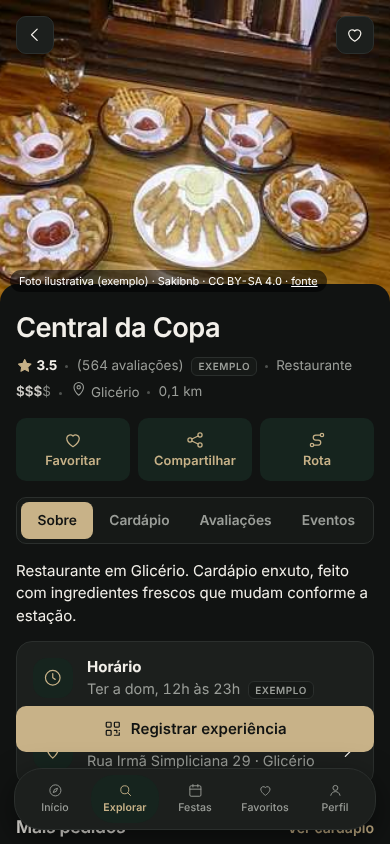
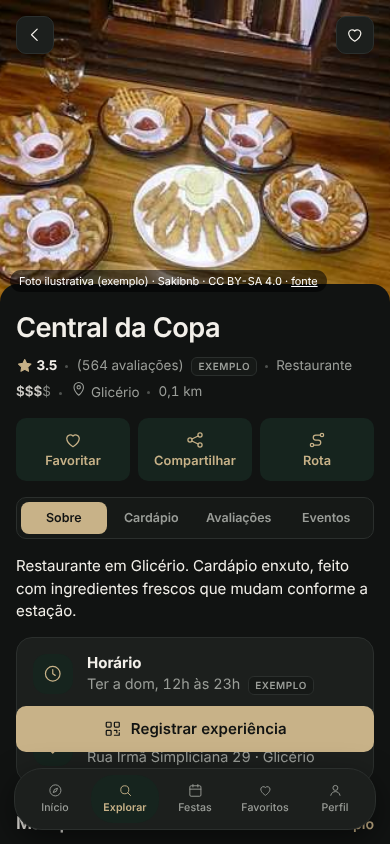
Festas: abas de período cabem no celular; Pagos com teto Até R$ x; categorias em uma linha; teste dos filtros
Claude-Session: https://claude.ai/code/session_011Er4bkypnUFfFv17kMZ9qv

diff --git a/frontend/teste_festas_filtros.js b/frontend/teste_festas_filtros.js
@@ -1,0 +1,61 @@
+// Festas (celular): abas de período dentro da tela; categorias em uma linha; "Pagos" e "Até R$ x" filtram certo; sem erros de JS.
+const { chromium } = require('playwright');
+(async () => {
+  const b = await chromium.launch(); let f = 0;
+  const ok = (c, m) => { console.log(c ? 'OK   ' : 'FALHA', m); if (!c) f++; };
+  for (const w of [360, 390, 412]) {
+    const ctx = await b.newContext({ viewport: { width: w, height: 800 }, isMobile: true, reducedMotion: 'reduce' });
+    const p = await ctx.newPage(); const er = [];
+    p.on('pageerror', e => er.push(e.message));
+    await p.addInitScript(() => { try { localStorage.setItem('turiz-theme', 'dark') } catch (e) { } });
+    await p.goto('file://' + process.argv[2]); await p.evaluate(() => go('login', null, true));
+    await p.fill('#f-mail', 'admin'); await p.fill('#f-pass', 'admin');
+    await p.evaluate(() => submitAuth(new Event('submit'))); await p.waitForTimeout(600);
+    await p.evaluate(() => { S.stack = []; S.tab.parties = 'prox'; S.pf = { q: '', g: '', cidade: '', tipo: '', preco: '', maxp: '' }; go('parties', null, true) });
+    await p.waitForTimeout(400);
+    const geo = await p.evaluate(() => {
+      const seg = document.querySelector('.tabs.seg').getBoundingClientRect();
+      const btns = [...document.querySelectorAll('.tabs.seg>button')].map(b => b.scrollWidth <= b.clientWidth + 1);
+      const chips = [...document.querySelectorAll('.m-cats .chip')];
+      const tops = new Set(chips.map(c => Math.round(c.getBoundingClientRect().top)));
+      const cortados = chips.filter(c => c.scrollWidth > c.clientWidth + 1).map(c => c.textContent.trim());
+      return { segDentro: seg.left >= 15 && seg.right <= innerWidth - 15, abasSemCorte: btns.every(Boolean), nAbas: btns.length,
+        nChips: chips.length, linhas: tops.size, cortados, larguraTela: innerWidth };
+    });
+    ok(geo.segDentro, `${w}px: abas de período dentro da tela com margem de 16px`);
+    ok(geo.abasSemCorte && geo.nAbas === 4, `${w}px: 4 abas de período sem texto cortado`);
+    ok(geo.nChips === 4 && geo.linhas === 1, `${w}px: 4 categorias em UMA linha (${geo.nChips} chips, ${geo.linhas} linha)`);
+    ok(geo.cortados.length === 0, `${w}px: nenhum rótulo de categoria cortado ${JSON.stringify(geo.cortados)}`);
+    ok(await p.evaluate(() => !document.querySelector('[data-act="pf:preco:100"]') && !/Até R\$ 100/.test(document.querySelector('.evfilters')?.textContent || '')) , `${w}px: botão "Até R$ 100" saiu da linha de preço`);
+    ok(await p.evaluate(() => !!document.querySelector('[data-act="pf:preco:pago"]')) && !(await p.$('#pmax')), `${w}px: "Pagos" aparece e o seletor "Até R$ x" está escondido antes de clicar`);
+
+    const count = () => p.evaluate(() => parseInt(document.querySelector('.m-count span').textContent.replace(/\./g, ''), 10));
+    const total = await count();
+    ok(total === await p.evaluate(() => E.length), `${w}px: sem filtro de preço mostra todos os eventos (${total})`);
+
+    await p.click('[data-act="pf:preco:pago"]'); await p.waitForTimeout(250);
+    const pagos = await p.evaluate(() => E.filter(e => !e.free && e.price != null).length);
+    ok(await count() === pagos, `${w}px: "Pagos" mostra só eventos com preço conhecido e não gratuitos (${pagos})`);
+    ok(await p.$('#pmax') !== null, `${w}px: ao clicar em Pagos, aparece o seletor "Até R$ x" ao lado`);
+    const opts = await p.evaluate(() => [...document.querySelectorAll('#pmax option')].map(o => o.textContent));
+    ok(opts.join('|') === 'Sem limite|Até R$ 50|Até R$ 100|Até R$ 200|Até R$ 500', `${w}px: opções do teto ${opts.join(', ')}`);
+
+    for (const v of ['50', '100', '200']) {
+      await p.selectOption('#pmax', v); await p.waitForTimeout(250);
+      const esp = await p.evaluate(v => E.filter(e => !e.free && e.price != null && e.price <= +v).length, v);
+      ok(await count() === esp, `${w}px: Pagos + Até R$ ${v} mostra ${esp} eventos`);
+    }
+    await p.selectOption('#pmax', ''); await p.waitForTimeout(250);
+    ok(await count() === pagos, `${w}px: "Sem limite" volta a mostrar todos os pagos (${pagos})`);
+
+    await p.click('[data-act="pf:preco:pago"]'); await p.waitForTimeout(250);
+    ok(await count() === total, `${w}px: desligar Pagos volta ao total (${total})`);
+    ok(await p.$('#pmax') === null, `${w}px: seletor some quando Pagos está desligado`);
+
+    await p.click('[data-act="pf:g:musica_entretenimento"]'); await p.waitForTimeout(250);
+    ok(await p.evaluate(() => S.pf.g === 'musica_entretenimento' && document.querySelector('.m-cats [aria-pressed="true"]').textContent.trim() === 'Música'), `${w}px: categoria "Música" marca só ela`);
+    ok(er.length === 0, `${w}px: sem erros de JavaScript ${JSON.stringify(er)}`);
+    await ctx.close();
+  }
+  await b.close(); console.log(f ? f + ' FALHAS' : 'TUDO OK'); process.exit(f ? 1 : 0);
+})();

diff --git a/frontend/patch_modelo.py b/frontend/patch_modelo.py
@@ -129,10 +129,23 @@ button.li:hover,.li[data-go]:hover{background:color-mix(in srgb,var(--ink) 5%,va
 .m-xr small{font-size:.7rem;color:var(--ink-2)}
 .m-xr .m-v{font-size:.78rem;font-weight:600;color:var(--brand);white-space:nowrap}
 .m-xr .m-v.pend{color:var(--warn)}
+/* categorias: uma linha só, em 4 colunas iguais que cabem em qualquer celular */
+.m-cats{display:grid;grid-template-columns:repeat(4,minmax(0,1fr));gap:6px}
+.m-cats .chip{min-width:0;padding:8px 0;font-size:.7rem;font-weight:500;color:var(--ink-2);white-space:nowrap;overflow:hidden;text-overflow:ellipsis;text-align:center}
+.m-cats .chip[aria-pressed="true"]{background:var(--brand);border-color:var(--brand);color:var(--brand-ink);font-weight:600}
+@media (min-width:720px){.m-cats{grid-template-columns:repeat(4,max-content);justify-content:start;gap:8px}.m-cats .chip{padding:7px 14px;font-size:.78rem}}
+/* abas de período (e de outras telas): colunas iguais; o texto quebra dentro da aba em vez de sair da tela */
+.evfilters .m-sel{position:relative;display:inline-flex;flex:none}
+.evfilters .m-sel select{appearance:none;-webkit-appearance:none;border:1px solid var(--line);background:var(--surface);color:var(--ink);box-shadow:none;border-radius:999px;height:auto;min-height:0;font:500 .78rem var(--font-body);padding:8px 30px 8px 14px;max-width:none}
+.evfilters .m-sel select:focus-visible{outline:2px solid var(--brand);outline-offset:2px}
+.evfilters .m-sel .i{position:absolute;right:11px;top:50%;transform:translateY(-50%);width:14px;height:14px;pointer-events:none;color:var(--ink-2)}
+.tabs.seg{display:grid;grid-auto-flow:column;grid-auto-columns:minmax(0,1fr);overflow:visible;gap:2px}
+.tabs.seg>button{min-width:0;white-space:normal;line-height:1.15;padding:9px 4px;font-size:.78rem;text-align:center}
 """
 
 HELPERS = r'''
 /* ---- peças do layout do modelo (usam só os dados do próprio app) ---- */
+const GRUPO_CURTO={musica_entretenimento:"Música",gastronomia:"Gastronomia",cultura_lazer:"Cultura"};
 const mPreco=p=>p.price?"$".repeat(Math.min(4,+p.price||0)):"";
 const mNotaTxt=p=>p.rating==null?"":"★ "+p.rating.toFixed(1).replace(".",",");
 const mMeta=p=>[esc(p.region||p.cuisine||""),mPreco(p),mNotaTxt(p)].filter(Boolean).join(" • ");
@@ -176,8 +189,9 @@ ${(()=>{const q=(f.q||"").trim();if(q.length<3)return"";const r=evFilter(E,evNL(
 PARTIES = r'''
 V.parties=()=>{const t=S.tab.parties,p=S.pf,nl=p.q.trim()?evNL(p.q):{f:{},info:[]},f={...nl.f};
 const reais=E.filter(e=>e.real),temData=f.de!=null||f.ate!=null;
-if(p.cidade)f.cidade=p.cidade;if(p.g)f.grupo=p.g;if(p.tipo)f.tipo=p.tipo;if(p.preco==="free")f.gratuito=true;if(p.preco==="100")f.max=100;
+if(p.cidade)f.cidade=p.cidade;if(p.g)f.grupo=p.g;if(p.tipo)f.tipo=p.tipo;if(p.preco==="free")f.gratuito=true;
 let l=evFilter(E,f);if(!temData&&t!=="prox")l=l.filter(e=>e.day===t);
+if(p.preco==="pago")l=l.filter(e=>!e.free&&e.price!=null&&(!p.maxp||e.price<=+p.maxp));
 const cidades=Object.entries(reais.reduce((o,e)=>(e.cidade&&(o[e.cidade]=(o[e.cidade]||0)+1),o),{})).sort((a,b)=>b[1]-a[1]).slice(0,40);
 const temTipo=reais.some(e=>e.placeId),n=l.length,vis=l.slice(0,S.pn);
 const atualiz=REAL.gerado?new Date(REAL.gerado).toLocaleDateString("pt-BR"):"";
@@ -186,9 +200,9 @@ return`<div class="m-phead"><div class="row between"><h1 class="m-h1">Festas</h1
 <form class="search" id="pqf" role="search">${ic("search")}<input id="pq" value="${esc(p.q)}" placeholder="Ex.: shows hoje em São Paulo · festas no fim de semana" aria-label="Buscar eventos"></form>
 ${nl.info.length?`<p class="evinterp" style="margin-top:8px">Entendi: <b>${nl.info.map(esc).join(" · ")}</b> <button class="link" data-act="pfclear">limpar</button></p>`:""}</div>
 ${temData?"":segs("parties",[["hoje","Hoje"],["amanha","Amanhã"],["fds","Fim de semana"],["prox","Próximos"]])}
-<div class="evfilters"><div class="evrow m-chips" role="group" aria-label="Categorias"><button class="chip" aria-pressed="${!p.g}" data-act="pf:g:">Tudo</button>${GRUPOS.map(([k,n2])=>`<button class="chip" aria-pressed="${p.g===k}" data-act="pf:g:${k}">${n2}</button>`).join("")}</div>
+<div class="evfilters"><div class="m-cats" role="group" aria-label="Categorias"><button class="chip" aria-pressed="${!p.g}" data-act="pf:g:">Tudo</button>${GRUPOS.map(([k,n2])=>`<button class="chip" aria-pressed="${p.g===k}" title="${esc(n2)}" data-act="pf:g:${k}">${GRUPO_CURTO[k]||n2}</button>`).join("")}</div>
 <div class="evrow m-chips">${cidades.length>1?`<select id="pcity" aria-label="Cidade"><option value="">Todas as cidades</option>${cidades.map(([c,k])=>`<option value="${esc(c)}"${p.cidade===c?" selected":""}>${esc(c)} (${k})</option>`).join("")}</select>`:""}
-<button class="chip" aria-pressed="${p.preco==="free"}" data-act="pf:preco:free">Gratuitos</button><button class="chip" aria-pressed="${p.preco==="100"}" data-act="pf:preco:100">Até R$ 100</button>
+<button class="chip" aria-pressed="${p.preco==="free"}" data-act="pf:preco:free">Gratuitos</button><button class="chip" aria-pressed="${p.preco==="pago"}" data-act="pf:preco:pago">Pagos</button>${p.preco==="pago"?`<label class="m-sel"><select id="pmax" aria-label="Preço máximo">${[["","Sem limite"],["50","Até R$ 50"],["100","Até R$ 100"],["200","Até R$ 200"],["500","Até R$ 500"]].map(([v,t])=>`<option value="${v}"${(p.maxp||"")===v?" selected":""}>${t}</option>`).join("")}</select><svg class="i" viewBox="0 0 24 24" aria-hidden="true"><path d="m6 9 6 6 6-6"/></svg></label>`:""}
 ${temTipo?`<button class="chip" aria-pressed="${p.tipo==="Restaurante"}" data-act="pf:tipo:Restaurante">Em restaurantes</button><button class="chip" aria-pressed="${p.tipo==="Bar"}" data-act="pf:tipo:Bar">Em bares</button>`:""}</div></div>
 <p class="m-count" style="margin:14px 0 4px"><span>${num(n)} ${n===1?"evento":"eventos"}</span></p>
 ${n?`<div class="m-agenda">${vis.map(mEvRow).join("")}</div>`:`<div class="card state"><div class="big brand">${ic("star")}</div><h3>${E.length?"Nenhum evento com esses filtros":"Ainda não há eventos"}</h3><p class="sub">${E.length?"Tente outro período, cidade ou categoria.":"Os eventos aparecem aqui quando as fontes forem coletadas."}</p>${E.length?`<button class="btn soft" data-act="pfclear">Limpar filtros</button>`:""}</div>`}
@@ -249,6 +263,9 @@ def main(arq):
     h = h.replace(ant, 'const TABS=[["home","Início","compass"],["explore","Explorar","search"],["parties","Festas","calendar"],', 1)
     assert '<symbol id="i-home"' in h
     h = h.replace('<symbol id="i-home"', CAL + '<symbol id="i-home"', 1)
+    ant = 'const pc=$("#pcity");if(pc)pc.addEventListener("change",e=>{S.pf.cidade=e.target.value;S.pn=24;render()});'
+    assert ant in h, "ligação do seletor de cidade não encontrada"
+    h = h.replace(ant, ant + 'const pm=$("#pmax");if(pm)pm.addEventListener("change",e=>{S.pf.maxp=e.target.value;S.pn=24;render()});', 1)
     # 3) só Inter
     h, n = re.subn(r'<link rel="stylesheet" href="https://fonts\.googleapis\.com/css2\?family=Inter[^"]*">',
                    '<link rel="stylesheet" href="https://fonts.googleapis.com/css2?family=Inter:wght@400..700&display=swap">', h, count=1)
